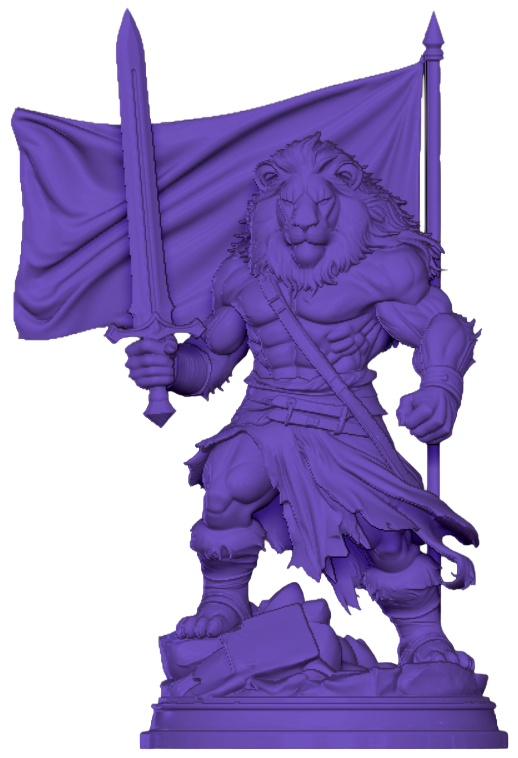
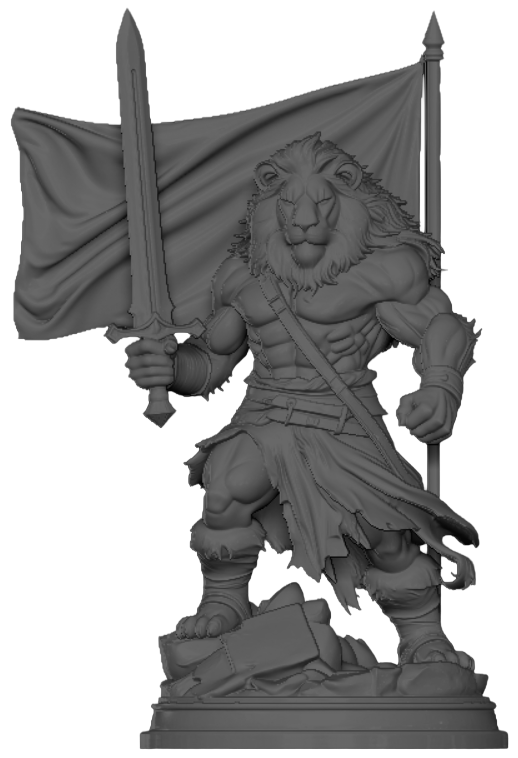
Odbarw render modelu poglądowego lwa do szarości

diff --git a/index.html b/index.html
@@ -1006,7 +1006,7 @@
         </div>
 
         <div class="process-step">
-          <img class="process-img" src="lewmodelpog.png" alt="Darmowy model poglądowy">
+          <img class="process-img" src="lewmodelpog.png" alt="Darmowy model poglądowy" style="background:transparent;">
           <div class="process-num">02</div>
           <div class="process-body">
             <h3>Model poglądowy i poprawki</h3>
